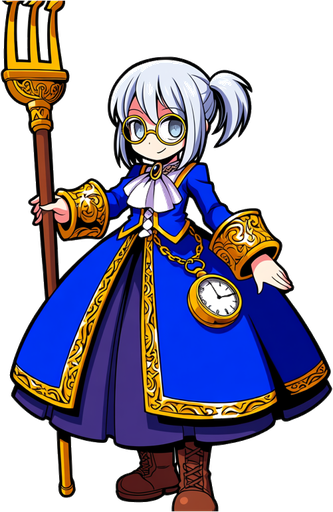
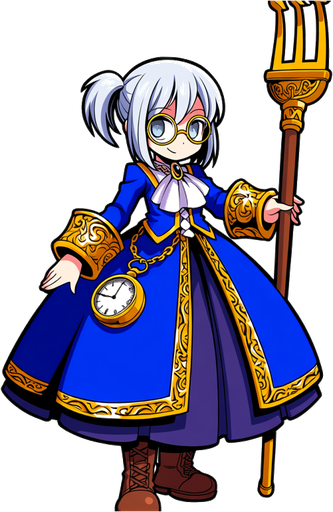
カノン: 立ち絵を左右反転＋お題UIをボタンの角バッジに集約（スマホ画面に収める）
- hero8 を左右反転。指揮棒（音叉）を敵の方へ掲げる向きになった
- 「お題帯」（見出し行＋数字3列の2行・約56px）を廃止し、お題を
  アクションボタン左上の角バッジへ移動。ボタンの並び＝消化順なので
  oi番目のボタンがoi番目のお題を担当し、対応関係はむしろ分かりやすい。
  絶対配置なので行が増えない
- バッジ表示: 達成=金「3 ×1.5」／外し=灰＋取り消し線「4 －」／
  今の手番=青「2 ×1.5」（当てたときの倍率）／これから=「4 個」
- 「次の倍率」チップは320px幅でチップ行が2段に折れるため廃止し、
  今の手番のバッジ側へ集約

これで 390x664 / 360x640 / 320x568 のいずれでも他キャラと同じく
画面内に収まる（計測: over=0px。430x780 の31px溢れは全キャラ共通の既存挙動）

diff --git a/index.html b/index.html
@@ -5670,41 +5670,33 @@ function DropBattle() {
           h("b", { style:{ color: incomingPreview > 0 ? "#ff8a80" : "#7cffb0", fontSize:15, fontVariantNumeric:"tabular-nums", textShadow:"0 1px 2px #000" } }, incomingPreview),
           effDef > 0 && h("span", { className:"flex items-center", style:{ gap:2, fontSize:10, color:"#9db8e8" } },
             "（", h("img", { src:"assets/icon_def.png", alt:"", draggable:false, width:11, height:11, style:{ width:11, height:11, maxWidth:11, maxHeight:11, flexShrink:0, objectFit:"contain" } }), effDef, "）"))),
-      // カノンの「お題」帯。アクションボタンと同じ3列グリッドで真上に並べる＝
-      // 「1手目は4個・2手目は2個・3手目は7個」がボタンとの対応で一目でわかる。
-      // アクションをドラッグで並べ替えると、どのお題をどのアクションで取るかが変わる（＝そこが読み合い）
-      CHARS[curChar].skill === "resonate" && (() => {
-        const quota = tv.resoQuota || [];
-        const hits = tv.resoHit || [];
-        const slot = used.size;                                  // 今から消す手番
-        const nextMul = resoMul(resoView);
-        const doneN = hits.filter(v => v).length;
-        return h("div", { className:"rounded-xl px-1.5 py-1 mb-1", style:{ background:"rgba(30,24,42,.92)", border:"2px solid rgba(77,123,240,.55)",
-          opacity: gActive ? 0.34 : 1, transition:"opacity .3s ease" } },
-          h("div", { className:"flex items-center justify-center mb-1", style:{ gap:5 } },
-            h("img", { src:"assets/mk_chord.png", alt:"", draggable:false, width:13, height:13, style:{ width:13, height:13, maxWidth:13, maxHeight:13, flexShrink:0, objectFit:"contain" } }),
-            h("span", { className:"text-[10px] font-bold", style:{ color:"#a8c2ff", whiteSpace:"nowrap" } }, "お題ぴったりで消すと効果アップ"),
-            h("span", { className:"text-[10px] font-bold rounded", style:{ padding:"0 4px", whiteSpace:"nowrap",
-              color: resoView > 0 ? "#ffd75e" : "#7d7590", border:`1px solid ${resoView > 0 ? "#ffd75e" : "#3c3450"}` } },
-              "次 ×" + fmtMul(nextMul))),
-          h("div", { className:"grid grid-cols-3", style:{ gap:8 } }, [0,1,2].map(i => {
-            const hit = hits[i];                                  // null=未消化 / 0=外し / N=倍率
-            const isNow = i === slot && !locked;
-            // ドラッグ中は「今つかんでいるグループの数」でぴったり判定を先出しする
-            const near = isNow && info ? Math.abs(info.count - quota[i]) <= (((info.sp.chord||0)-(info.spu.chord||0)) + (info.spu.chord||0)*2) : false;
-            const col = hit ? "#ffd75e" : hit === 0 ? "#6b6480" : isNow ? "#8fb2ff" : "#c9bfe0";
-            return h("div", { key:i, className:"rounded-lg flex items-center justify-center", style:{ gap:3, padding:"1px 0",
-              background: near ? "rgba(255,215,94,.18)" : isNow ? "rgba(77,123,240,.16)" : "transparent",
-              border:`1px solid ${near ? "#ffd75e" : isNow ? "rgba(77,123,240,.65)" : "transparent"}`,
-              transition:"background .15s ease, border-color .15s ease" } },
-              h("b", { style:{ fontSize:"1.05rem", lineHeight:1.15, color:col, fontVariantNumeric:"tabular-nums",
-                textDecoration: hit === 0 ? "line-through" : "none", textShadow: near || hit ? "0 0 8px rgba(255,215,94,.85)" : "none" } }, quota[i] || "-"),
-              h("span", { className:"text-[9px] font-bold", style:{ color:col } },
-                hit ? "×" + fmtMul(hit) : hit === 0 ? "－" : near ? "ぴったり！" : "個"));
-          })));
-      })(),
       // アクション（並び＝消化順。ドラッグで入れ替え）
       h("div", { className:"grid grid-cols-3 gap-2 mb-1", ref: actRowRef }, actOrder.map((key, oi) => {
+        // カノンの「お題」バッジ。ボタンの並び順＝消化順なので oi 番目のボタンが oi 番目のお題を担当する。
+        // 絶対配置なので行が増えず、スマホの画面高を圧迫しない（お題帯は廃止してここへ集約）
+        const quotaBadge = (() => {
+          if (CHARS[curChar].skill !== "resonate") return null;
+          const q = (tv.resoQuota || [])[oi] || 0;
+          const hit = (tv.resoHit || [])[oi];                    // null=未消化 / 0=外し / N=倍率
+          const isNow = oi === used.size && !locked;
+          // ドラッグ中は「今つかんでいるグループ」でぴったり判定を先出しする（調律は選んだ切り取り数で判定）
+          const near = isNow && info
+            ? (key === "heal"
+              ? tuneN === q
+              : Math.abs(info.count - q) <= (((info.sp.chord || 0) - (info.spu.chord || 0)) + (info.spu.chord || 0) * 2))
+            : false;
+          const col = hit ? "#ffd75e" : hit === 0 ? "#6b6480" : near ? "#ffd75e" : isNow ? "#8fb2ff" : "#9b93a6";
+          return h("span", { key:"q", className:"absolute flex items-center font-bold", style:{ left:3, top:2, gap:1, padding:"0 3px", borderRadius:7,
+            fontSize:10, lineHeight:1.5, color:col, fontVariantNumeric:"tabular-nums", whiteSpace:"nowrap", pointerEvents:"none", zIndex:2,
+            background: near ? "rgba(255,215,94,.2)" : isNow ? "rgba(77,123,240,.18)" : "transparent",
+            border:`1px solid ${hit ? "#ffd75e" : near ? "#ffd75e" : isNow ? "rgba(77,123,240,.65)" : "#3c3450"}`,
+            textDecoration: hit === 0 ? "line-through" : "none",
+            textShadow: (near || hit) ? "0 0 6px rgba(255,215,94,.8)" : "none",
+            transition:"color .15s ease, border-color .15s ease, background .15s ease" } },
+            q || "-", h("span", { style:{ fontSize:8, opacity:0.9 } },
+              // 320px幅ではバッジがアイコンに被るので矢印は入れない（達成=金/これから=青の色分けで区別できる）
+              hit ? "×" + fmtMul(hit) : hit === 0 ? "－" : isNow ? "×" + fmtMul(resoMul(resoView)) : "個"));
+        })();
         // カノン: 今つかんでいるグループが「その手番のお題」ぴったりなら、かかる予定の倍率
         const resoPrevMul = (() => {
           if (CHARS[curChar].skill !== "resonate" || !info || key === "heal") return 1;
@@ -5871,6 +5863,7 @@ function DropBattle() {
               // 倍率予約中はターン終了まで読めるよう、使用後でも明るさを残す
               opacity: isUsed ? ((curSkill === "buff" && tv.buffPend) || (curSkill === "gamble" && tv.gambleShown) || curSkill === "resonate" ? 0.9 : 0.4) : 1, transition:"background .25s ease, border-color .25s ease, opacity .25s ease, box-shadow .25s ease", ...(dragSt || {}) } },
             h("span", { style:{ position:"absolute", top:0, left:"14%", right:"14%", height:3, borderRadius:"0 0 4px 4px", background:sc, opacity: isUsed ? 0.25 : 0.9, pointerEvents:"none" } }),
+            quotaBadge,
             iconEl,
             h("span", { style:{ fontSize:11, height:15, lineHeight:"15px", whiteSpace:"nowrap", color: isUsed ? "#777" : "#e7e0ef" } }, title),
             h("span", { style:{ fontSize:"1.05rem", height:20, lineHeight:"20px", display:"flex", alignItems:"center", justifyContent:"center", color: isUsed ? sc : "#e0d8f0" } }, valEl));
@@ -5950,6 +5943,7 @@ function DropBattle() {
             zIndex: guideTgt ? 46 : "auto", touchAction:"none",
             transition:"background .25s ease, border-color .25s ease, box-shadow .25s ease, opacity .25s ease", ...(dragSt || {}) } },
           h("span", { style:{ position:"absolute", top:0, left:"14%", right:"14%", height:3, borderRadius:"0 0 4px 4px", background:a.color, opacity: isUsed && !lit ? 0.25 : 0.9, pointerEvents:"none" } }),
+          quotaBadge,
           h("img", { src:a.img, alt:a.label, draggable:false, width:20, height:20, style:{ height:20, width:20, maxWidth:20, maxHeight:20, flexShrink:0, marginTop:5, objectFit:"contain", opacity: isUsed && !lit ? 0.35 : 1, filter:"drop-shadow(0 2px 1px rgba(0,0,0,.45))" } }),
           h("span", { style:{ fontSize:11, height:15, lineHeight:"15px", whiteSpace:"nowrap", color: isUsed ? (lit ? "#e7e0ef" : "#777") : "#e7e0ef" } }, a.label,
             // 表示倍率はキャラ補正込みの実効値（ルクスの全効果2倍もここに反映。レリック加算はperOf内）
